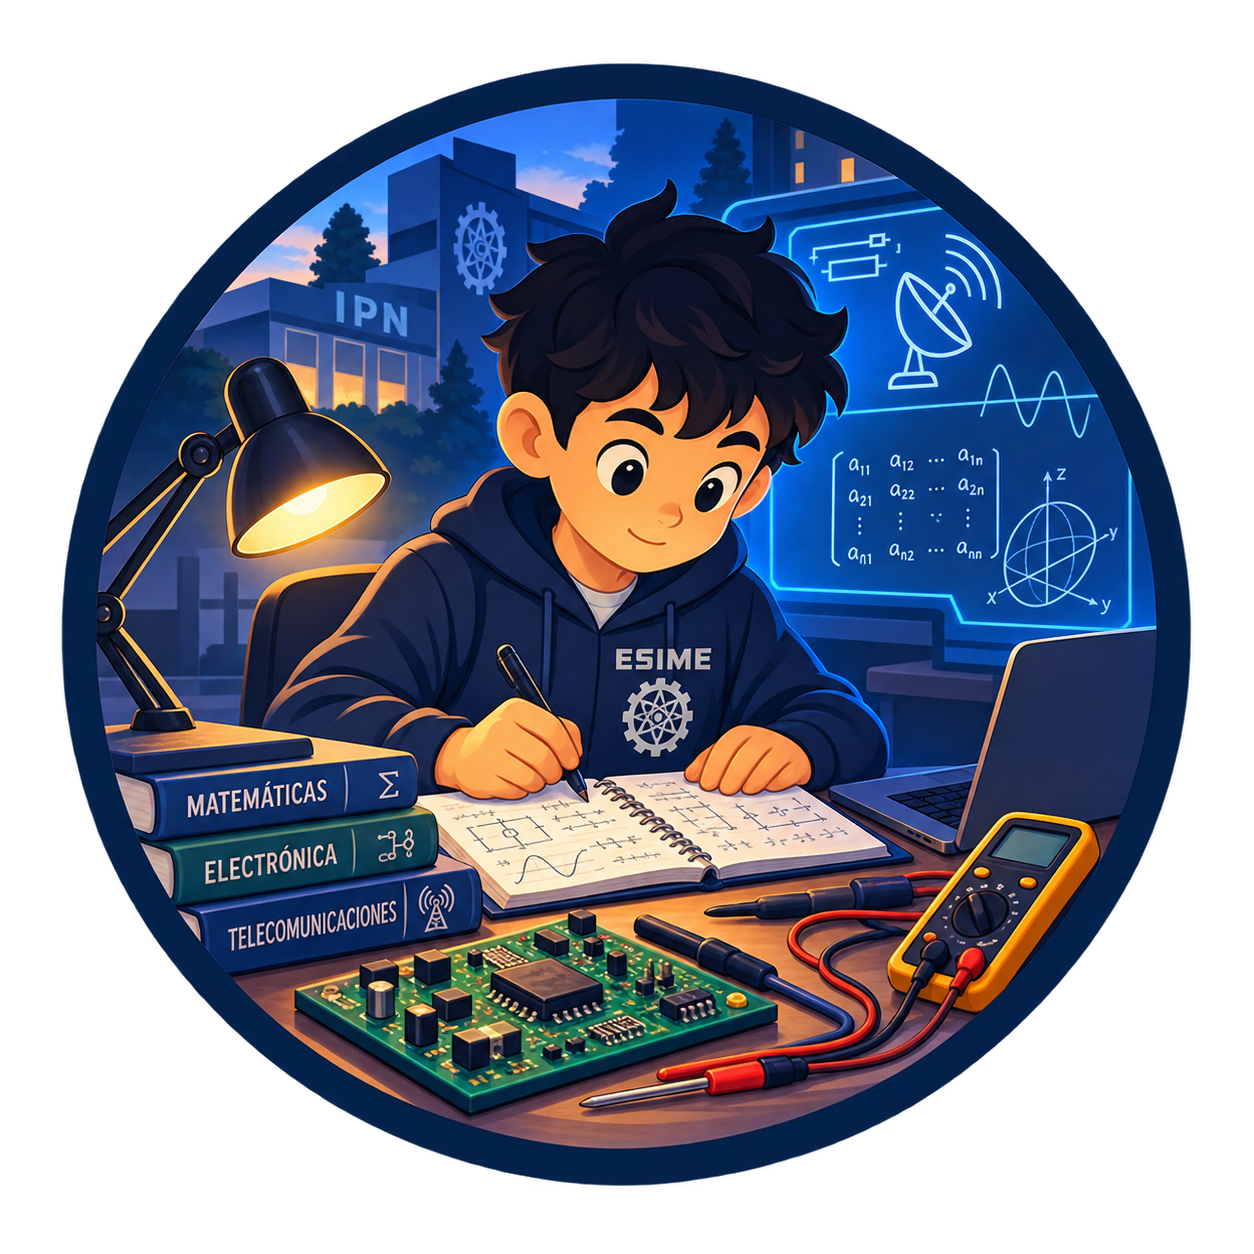
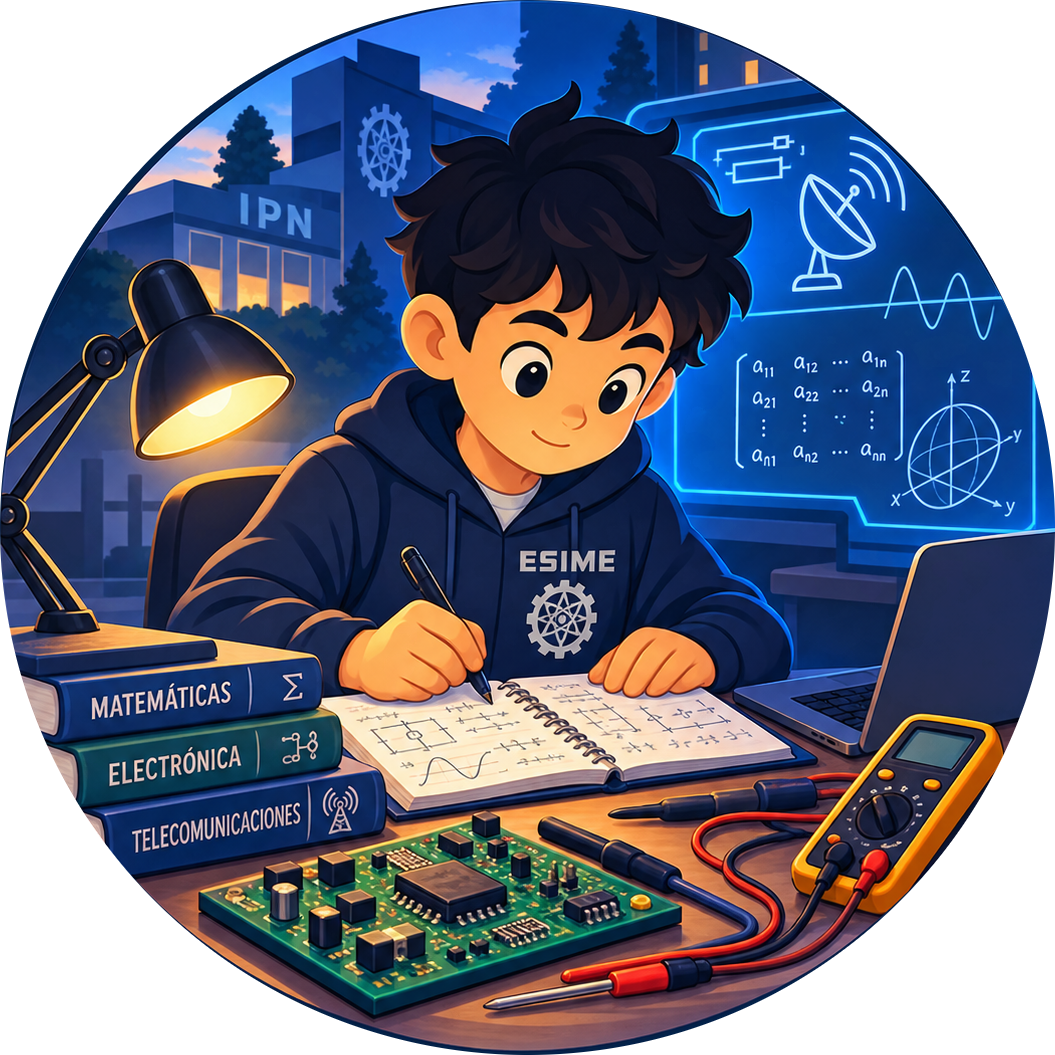
formacion mobile

diff --git a/style/formacion.css b/style/formacion.css
@@ -14,31 +14,24 @@
     margin-bottom: 20px;
 }
 .node-circle {
-    width: 120px;            /* Ajusta el tamaño total del círculo aquí */
+    width: 120px;
     height: 120px;
-    border: 4px solid #e11d48; /* El borde debe ser consistente en todos */
+    border: 4px solid #e11d48;
     border-radius: 50%;
-    overflow: hidden;       /* ¡IMPORTANTE! Corta cualquier parte de la imagen que se salga del círculo */
+    overflow: hidden;
     display: flex;
     align-items: center;
     justify-content: center;
     flex-shrink: 0;
 }
+
 .node-circle img {
-    
-    object-fit: cover;      /* Mantiene la proporción de la imagen mientras llena el espacio */
-    border-radius: 50%;     /* Asegura la forma circular */
+    width: 110%;
+    height: 110%;
+    object-fit: cover; /* Esto asegura que la imagen llene el círculo sin deformarse */
+    display: block;
 }
 
-.icon-form {
-    display: flex;
-    align-items: center;
-    justify-content: center;
-    width: 100%;
-    height: 100%;
-    padding: 10px; /* Espacio interno para que la imagen no toque el borde del círculo */
-    box-sizing: border-box;
-}
 
 
 
@@ -137,4 +130,54 @@
     font-size: 0.95rem;
     color: var(--text-muted);
     line-height: 1.4;
+}
+
+
+
+@media (max-width: 768px) {
+    /* Contenedor principal: Cambiamos de fila a columna */
+    .evolution-item {
+        display: flex;
+        flex-direction: column;
+        align-items: center;
+        text-align: center;
+        gap: 20px;
+    }
+
+    /* Ajuste de los cuadros de contenido (Izquierda y Derecha) */
+    .content-box {
+        width: 100%;
+        padding: 10px 20px;
+    }
+
+    /* El primer contenido (Título y Badge) */
+    .evolution-item .content-box:first-child {
+        order: 1;
+    }
+
+    /* El círculo central con la imagen */
+    .node-circle {
+        order: 2;
+        margin: 0;
+    }
+
+    /* El segundo contenido (La lista de detalles) */
+    .evolution-item .content-box:last-child {
+        order: 3;
+        width: 100%;
+    }
+
+    /* Ajustes de la lista de detalles */
+    .detail-list {
+        padding: 0;
+        list-style-position: inside; /* Para que los puntos se vean bien centrados */
+    }
+
+    /* Ajuste de la línea central (si aplica a tu layout) */
+    .timeline-line {
+        left: 50%;
+        transform: translateX(-50%);
+        width: 2px;
+        height: 100%;
+    }
 }
